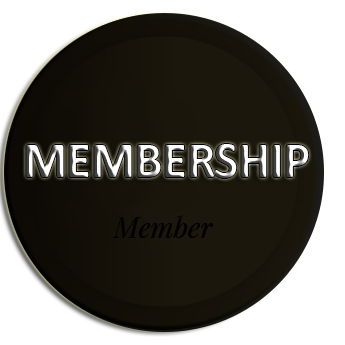
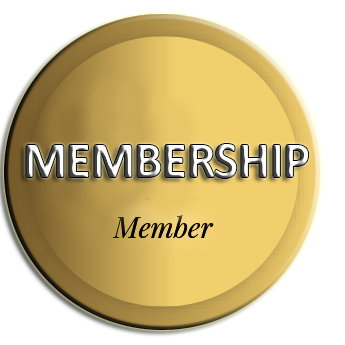
changes on binary images blank

diff --git a/static/page_front/js/register.js b/static/page_front/js/register.js
@@ -78,8 +78,8 @@ function crear_registro() {
 var target = document.getElementById('spinner');
 var spinner = new Spinner(opts).spin(target);
     
-        clave = document.getElementById("clave").value;
-        repita_clave = document.getElementById("repita_clave").value;
+       var clave = document.getElementById("clave").value;
+       var  repita_clave = document.getElementById("repita_clave").value;
 
             if(clave == repita_clave){
                var customer_id = document.getElementById("customer_id").value;

diff --git a/application/views/backoffice/b_binario.php b/application/views/backoffice/b_binario.php
@@ -134,7 +134,7 @@
                                                         <!--USERNAME-->
                                                         <span class="tree_text"><a href="<?php echo site_url().'backoffice/binario/'.$n2_iz[2];?>" class=""><?php echo $n2_iz[6];?></a></span>
                                                      <?php }else{ ?>
-                                                        <img src="<?php echo site_url().'static/backoffice/images/membership.png';?>" alt="paquete membership" width="96"/>                                                            
+                                                        <img src="<?php echo site_url().'static/backoffice/images/blank.png';?>" alt="paquete blank" width="96"/>                                                            
                                                     <?php } ?>
                                                 </span>
                                                 <!--//------END 2DO LEVEL LEFT------->
@@ -178,7 +178,7 @@
                                                         <span class="tree_text"><a href="<?php echo site_url().'backoffice/binario/'.$n3_iz[2];?>" class=""><?php echo $n3_iz[6];?></a></span>
                                                             
                                                             <?php }else{ ?>
-                                                             <img src="<?php echo site_url().'static/backoffice/images/membership.png';?>" alt="paquete membership" width="96"/>   
+                                                             <img src="<?php echo site_url().'static/backoffice/images/blank.png';?>" alt="paquete blank" width="96"/>     
                                                             <?php } ?>
                                                     </span>
                                                             <!--//-----END 4TO LEVEL LEFT--------->
@@ -222,7 +222,7 @@
                                                                             <span class="tree_text"><a href="<?php echo site_url().'backoffice/binario/'.$n4_iz[2];?>" class=""><?php echo $n4_iz[6];?></a></span>
                                                                         
                                                                         <?php }else{ ?>
-                                                                        <img src="<?php echo site_url().'static/backoffice/images/membership.png';?>" alt="paquete membership" width="96"/>                                                             
+                                                                        <img src="<?php echo site_url().'static/backoffice/images/blank.png';?>" alt="paquete blank" width="96"/>     
                                                                        <?php } ?>
                                                                     </span>
                                                                     <!--//-----END 4TO LEVEL LEFT--------->
@@ -267,7 +267,7 @@
                                                                         <span class="tree_text"><a href="<?php echo site_url().'backoffice/binario/'.$n4_2_iz[2];?>"><?php echo $n4_2_iz[6];?></a></span>
                                                                     
                                                                     <?php }else{ ?>
-                                                                        <img src="<?php echo site_url().'static/backoffice/images/membership.png';?>" alt="paquete membership" width="96"/>                                                              
+                                                                        <img src="<?php echo site_url().'static/backoffice/images/blank.png';?>" alt="paquete blank" width="96"/>     
                                                                     <?php } ?>
                                                                     </span>
                                                                     <!--//-----END 4TO 2DO LEVEL LEFT--------->
@@ -314,7 +314,7 @@
                                                         <span class="tree_text"><a href="<?php echo site_url().'backoffice/binario/'.$n3_2_iz[2];?>"><?php echo $n3_2_iz[6];?></a></span>
                                                     
                                                         <?php }else{ ?>
-                                                            <img src="<?php echo site_url().'static/backoffice/images/membership.png';?>" alt="paquete membership" width="96"/>   
+                                                            <img src="<?php echo site_url().'static/backoffice/images/blank.png';?>" alt="paquete blank" width="96"/>     
                                                          <?php } ?>
                                                     </span>
                                                             <!--//-----END 3ER 2DO LEVEL LEFT--------->
@@ -358,7 +358,7 @@
                                                                     <span class="tree_text"><a href="<?php echo site_url().'backoffice/binario/'.$n4_3_iz[2];?>"><?php echo $n4_3_iz[6];?></a></span>
                                                                         
                                                                         <?php }else{ ?>
-                                                                             <img src="<?php echo site_url().'static/backoffice/images/membership.png';?>" alt="paquete membership" width="96"/>   
+                                                                             <img src="<?php echo site_url().'static/backoffice/images/blank.png';?>" alt="paquete blank" width="96"/>     
                                                                         <?php } ?>
                                                                     </span>
                                                                     <!--//-----END 4TO 3ER LEVEL LEFT--------->
@@ -403,7 +403,7 @@
                                                                     <span class="tree_text"><a href="<?php echo site_url().'backoffice/binario/'.$n4_4_iz[2];?>"><?php echo $n4_4_iz[6];?></a></span>
                                                                     
                                                                     <?php }else{ ?>
-                                                                        <img src="<?php echo site_url().'static/backoffice/images/membership.png';?>" alt="paquete membership" width="96"/>   
+                                                                        <img src="<?php echo site_url().'static/backoffice/images/blank.png';?>" alt="paquete blank" width="96"/>     
                                                                     <?php } ?>
                                                                     </span>
                                                                     <!--//-----END 4TO LEVEL LEFT--------->
@@ -456,7 +456,7 @@
                                                     <span class="tree_text"><a href="<?php echo site_url().'backoffice/binario/'.$n2_de[2];?>"><?php echo $n2_de[6];?></a></span>
                                                         
                                                      <?php }else{ ?>
-                                                         <img src="<?php echo site_url().'static/backoffice/images/membership.png';?>" alt="paquete membership" width="96"/>   
+                                                         <img src="<?php echo site_url().'static/backoffice/images/blank.png';?>" alt="paquete blank" width="96"/>     
                                                     <?php } ?>
                                                 </span>
                                                 <!--//------END 2DO LEVEL RIGHT------->
@@ -500,7 +500,7 @@
                                                         <span class="tree_text"><a href="<?php echo site_url().'backoffice/binario/'.$n3_2_de[2];?>"><?php echo $n3_2_de[6];?></a></span>
                                                             
                                                             <?php }else{ ?>
-                                                             <img src="<?php echo site_url().'static/backoffice/images/membership.png';?>" alt="paquete membership" width="96"/>   
+                                                             <img src="<?php echo site_url().'static/backoffice/images/blank.png';?>" alt="paquete blank" width="96"/>     
                                                             <?php } ?>
                                                     </span>
                                                             <!--//-----3ER 2DO LEVEL RIGHT--------->
@@ -544,7 +544,7 @@
                                                                             <span class="tree_text"><a href="<?php echo site_url().'backoffice/binario/'.$n4_4_de[2];?>"><?php echo $n4_4_de[6];?></a></span>
                                                                         
                                                                         <?php }else{ ?>
-                                                                        <img src="<?php echo site_url().'static/backoffice/images/membership.png';?>" alt="paquete membership" width="96"/>   
+                                                                        <img src="<?php echo site_url().'static/backoffice/images/blank.png';?>" alt="paquete blank" width="96"/>     
                                                                        <?php } ?>
                                                                     </span>
                                                                     <!--//-----END 4TO LEVEL LEFT--------->
@@ -589,7 +589,7 @@
                                                                     <span class="tree_text"><a href="<?php echo site_url().'backoffice/binario/'.$n4_3_de[2];?>"><?php echo $n4_3_de[6];?></a></span>
                                                                     
                                                                     <?php }else{ ?>
-                                                                        <img src="<?php echo site_url().'static/backoffice/images/membership.png';?>" alt="paquete membership" width="96"/>   
+                                                                        <img src="<?php echo site_url().'static/backoffice/images/blank.png';?>" alt="paquete blank" width="96"/>     
                                                                     <?php } ?>
                                                                     </span>
                                                                     <!--//-----END 4TO 3ER LEVEL RIGHT--------->
@@ -636,7 +636,7 @@
                                                         <span class="tree_text"><a href="<?php echo site_url().'backoffice/binario/'.$n3_de[2];?>"><?php echo $n3_de[6];?></a></span>
                                                     
                                                         <?php }else{ ?>
-                                                            <img src="<?php echo site_url().'static/backoffice/images/membership.png';?>" alt="paquete membership" width="96"/>   
+                                                            <img src="<?php echo site_url().'static/backoffice/images/blank.png';?>" alt="paquete blank" width="96"/>     
                                                          <?php } ?>
                                                     </span>
                                                             <!--//-----END 3ER LEVEL RIGHT--------->
@@ -680,7 +680,7 @@
                                                                             <span class="tree_text"><a href="<?php echo site_url().'backoffice/binario/'.$n3_de[2];?>"><?php echo $n4_2_de[6];?></a></span>
                                                                         
                                                                         <?php }else{ ?>
-                                                                             <img src="<?php echo site_url().'static/backoffice/images/membership.png';?>" alt="paquete membership" width="96"/>
+                                                                             <img src="<?php echo site_url().'static/backoffice/images/blank.png';?>" alt="paquete blank" width="96"/>     
                                                                         <?php } ?>
                                                                     </span>
                                                                     <!--//-----END 4TO 2DO LEVEL RIGHT--------->
@@ -725,7 +725,7 @@
                                                                     <span class="tree_text"><a href="<?php echo site_url().'backoffice/binario/'.$n4_de[2];?>"><?php echo $n4_de[6];?></a></span>
                                                                     
                                                                     <?php }else{ ?>
-                                                                        <img src="<?php echo site_url().'static/backoffice/images/membership.png';?>" alt="paquete membership" width="96"/>   
+                                                                        <img src="<?php echo site_url().'static/backoffice/images/blank.png';?>" alt="paquete blank" width="96"/>     
                                                                     <?php } ?>
                                                                     </span>
                                                                     <!--//-----END 4TO LEVEL RIGHT--------->
